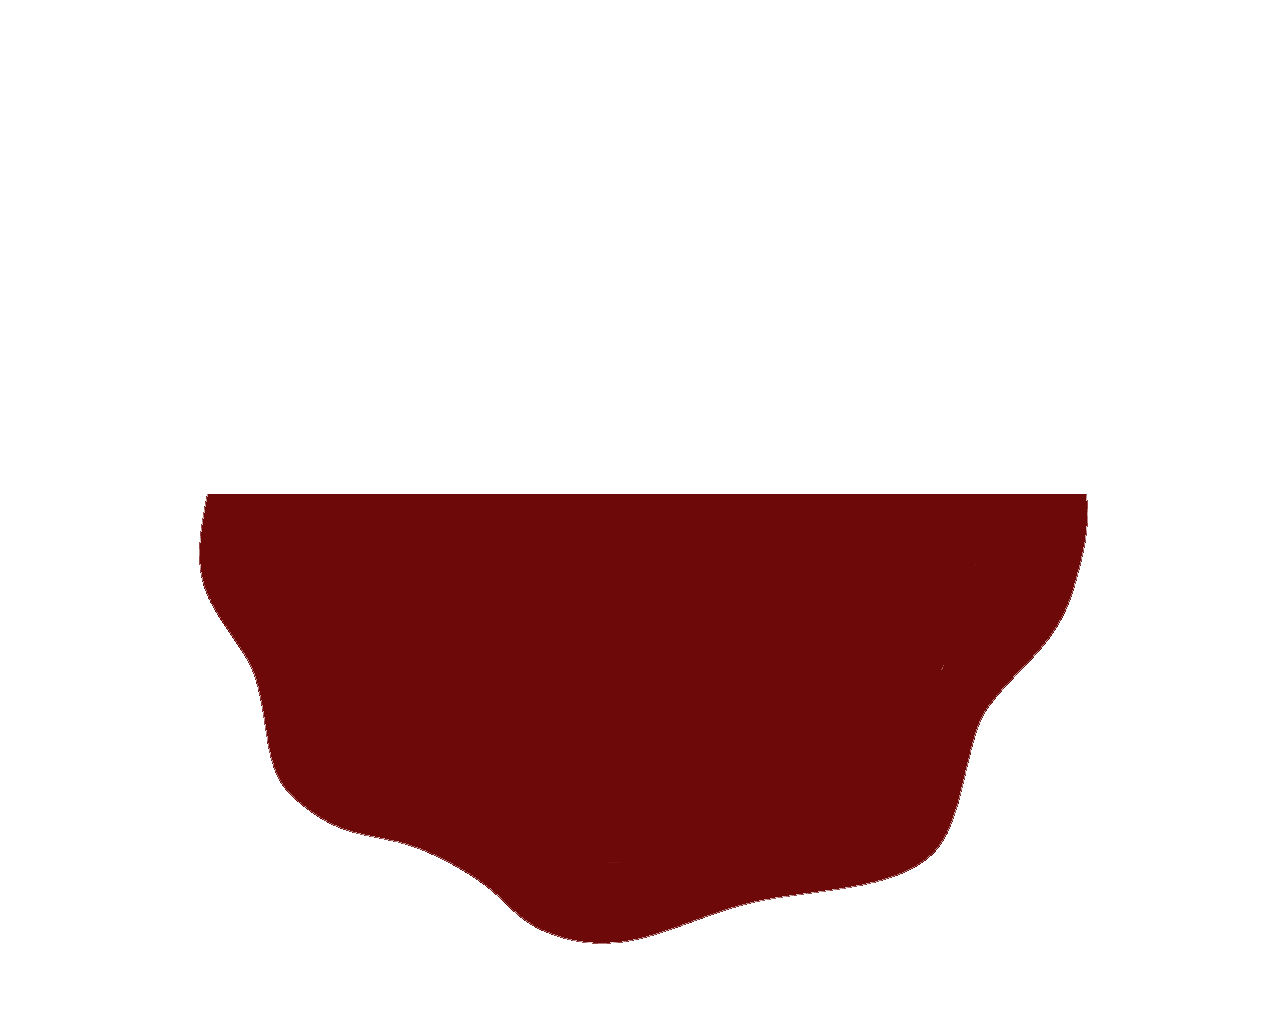
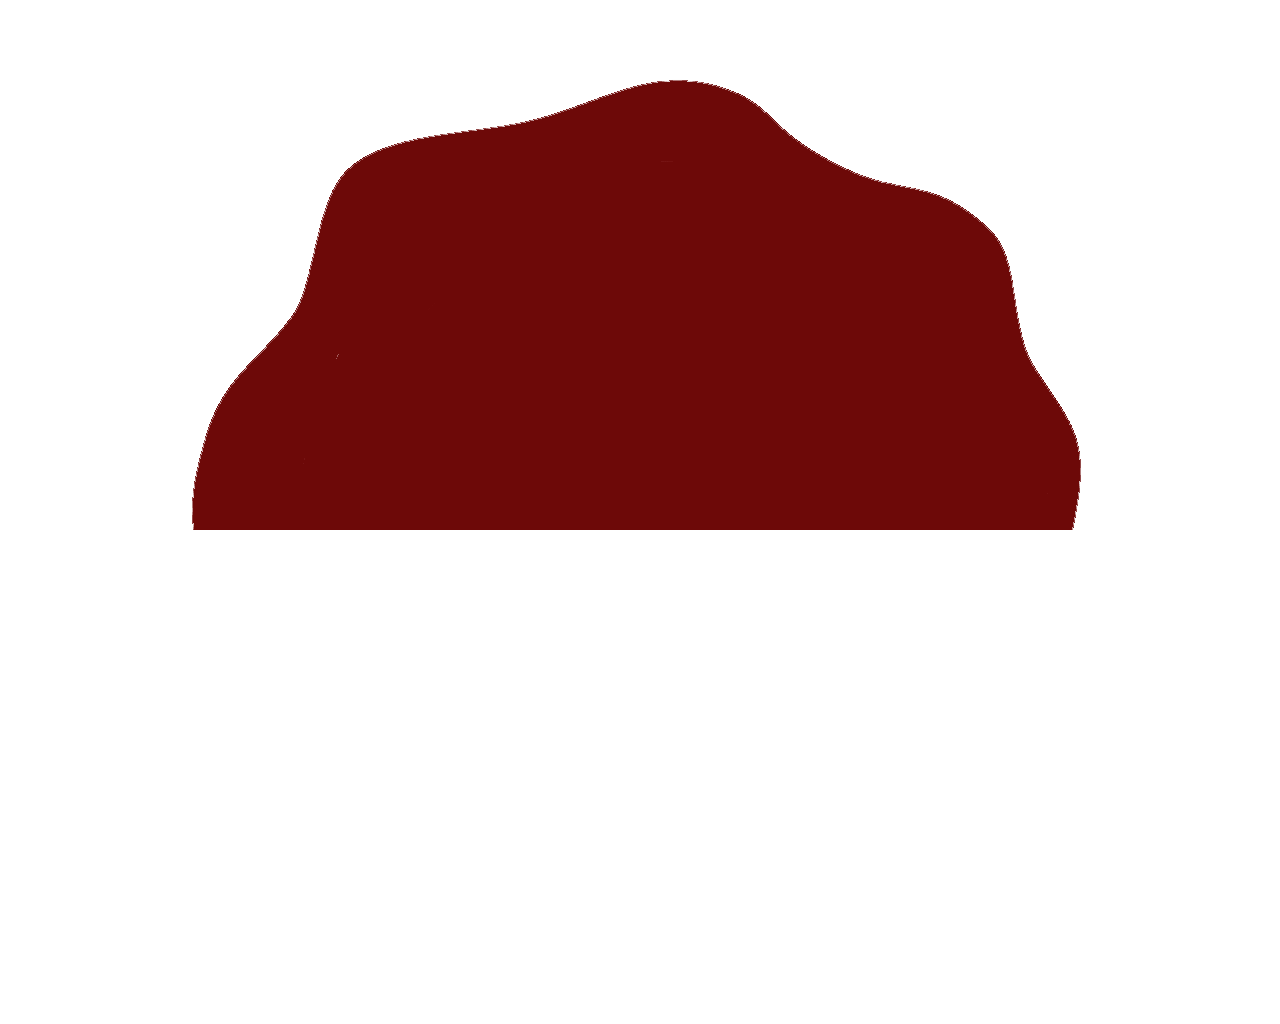
style: fix form in the letter

diff --git a/event-contact.html b/event-contact.html
@@ -274,54 +274,105 @@
         <section id="contact" class="mt-5 w-100">
           <div id="contact__container" class="container">
             <p class="contact__p fs-1 text-center col-11 mx-auto">D'abord, tu choisis ton <span>aventure </span>à la <span>date</span> qui te convient puis tu nous contactes pour réserver ta <span>place</span> !</p>
-            <div id="letter" class="col-11 mx-auto col-md-8 col-lg-5 m-5 bg-light text-black position-relative">
-              <div id="letter_up" class="contact__letter position-absolute border-bottom border-secondary col-12 m-0 p-0 bg-light" style="z-index: 6;height: 65%;">
-                <div id="letter-front_top" class="position-absolute h-100 col-12 bg-light">
-                  <h5 class="text-center fs-1 position-relative top-50 translate-middle-y">Formulaire de contact</h5>
-                  <button class="position-absolute start-50 translate-middle-x bg-transparent" style="bottom: -15%;"><img src="../../img_modif/stamp.png" alt="" style="height: 100px"></button>
+            <div id="letter" class="col-11 mx-auto col-md-8 col-lg-6 m-5 bg-light text-black position-relative">
+              <form class="col-12 fs-5">
+                <div id="letter_up" class="contact__letter position-absolute border-bottom border-secondary col-12 m-0 p-0 bg-light" style="z-index: 6;height: 55%;">
+                  <div id="letter-front_top" class="position-absolute h-100 col-12 bg-light">
+                    <h5 class="text-center fs-1 position-relative top-50 translate-middle-y">Formulaire de contact</h5>
+                    <button class="position-absolute start-50 translate-middle-x bg-transparent" style="bottom: -15%;"><img src="../../img_modif/stamp.png" alt="" style="height: 100px"></button>
+                  </div>
+                  <div id="letter-back_top" class="position-absolute h-100 col-12 bg-light">
+                    <button class="letter__button-back position-absolute start-50 translate-middle-x bg-transparent"><img src="../../img_modif/stamp-50-1.png" alt="" style="height: 100px; z-index: -5"></button>
+                    <div class="position-relative top-50" style="transform: translateY(-20%)">
+                      <div class="mb-3 col-10 mx-auto">
+                        <label for="name" class="form-label" >Nom :</label>
+                        <input type="text" class="form-control bg-transparent fs-5 p-0 ps-1" id="name">
+                      </div>
+                      <div class="col-10 mx-auto">
+                        <label for="email" class="form-label">Email :</label>
+                        <input type="email" class="form-control bg-transparent fs-5" id="email">
+                      </div>
+                    </div>
+                  </div>
                 </div>
-                <div id="letter-back_top" class="position-absolute h-100 col-12 bg-light">
-                  <button class="letter__button-back position-absolute start-50 translate-middle-x bg-transparent"><img src="../../img_modif/stamp-50-1.png" alt="" style="height: 100px; z-index: -5"></button>
+                <div class="form__second-part py-4">
+                  <p class="col-10 mx-auto m-0" >Raison de contact : </p>
+                  <div class="col-10 mx-auto d-flex flex-wrap flex-column">
+                    <p class="col-12 m-0">Soirée du...</p>
+                    <div class="form-check">
+                      <input class="form-check-input" type="radio" name="reason" id="firstDate" value="firstDate" checked>
+                      <label class="form-check-label" for="firstDate">
+                        19/08/2022
+                      </label>
+                    </div>
+                    <div class="mb-3">
+                      <select class="form-select bg-transparent fs-5" id="reason" disabled>
+                        <option value="">-- Choisir</option>
+                        <option value="" class="form__event">For the Queen</option>
+                        <option value="" class="form__event">CHRONIQUES OUBLIEES : La relique Défendue</option>
+                        <option value="" class="form__event">Donjons & Dragons 5ème édition</option>
+                        <option value="" class="form__event">City of Mist</option>
+                        <option value="" class="form__event">Campagne « Les Marches de L'ouest » FALLOUT - Session #1</option>
+                        <option value="" class="form__event">CHRONIQUES OUBLIÉES : Mystère à Clairval</option>
+                        <option value="" class="form__event">For the Crown</option>
+                      </select>
+                    </div>
+                    <div class="form-check">
+                      <input class="form-check-input" type="radio" name="reason" id="secondDate" value="secondDate">
+                      <label class="form-check-label" for="secondDate">
+                        02/10/2022
+                      </label>
+                    </div>
+                    <div class="mb-3">
+                      <select class="form-select bg-transparent fs-5" id="reason" disabled>
+                        <option value="">-- Choisir</option>
+                        <option value="" class="form__event">ONIRIS- "Un Bruit Au Fond Du Trou"</option>
+                        <option value="" class="form__event">STAR WARS - "Une Nuit À La Station Tosche"</option>
+                        <option value="" class="form__event">Rune</option>
+                        <option value="" class="form__event">KAAMELOTT - "Excalibur a disparu"</option>
+                        <option value="" class="form__event">FALLOUT - Campagne "Les Marches de l'ouest" #5</option>
+                      </select>
+                    </div>
+                    <div class="form-check">
+                      <input class="form-check-input" type="radio" name="reason" id="thirdDate" value="thirdDate">
+                      <label class="form-check-label" for="thirdDate">
+                        02/10/2022
+                      </label>
+                    </div>
+                    <div class="mb-3">
+                      <select class="form-select bg-transparent fs-5" id="reason" disabled>
+                        <option value="">-- Choisir</option>
+                        <option value="" class="form__event">Hogward</option>
+                        <option value="" class="form__event">Alien</option>
+                        <option value="" class="form__event">CHRONIQUE OUBLIÉES : Les Mystères de Clairval (Partie II)</option>
+                        <option value="" class="form__event">LE DONJON DE NAHEULBEUK: Les ruines d'Asvaard</option>
+                        <option value="" class="form__event">HONEY HEIST : Le Plan "Tigrade"</option>
+                        <option value="" class="form__event">Face au Titan</option>
+                      </select>
+                    </div>
+                    <div class="form-check mb-3">
+                      <input class="form-check-input" type="radio" name="reason" id="other" value="other">
+                      <label class="form-check-label" for="other">
+                        ou autre...
+                      </label>
+                    </div>
+                  </div>
+                  <div class="form-group mb-5 col-10 mx-auto">
+                    <textarea class="form-control fs-5 pt-1 bg-transparent" placeholder="Message..." id="floatingTextarea" style="height: 100px"></textarea>
+                  </div>
                 </div>
-              </div>
-              <div id="letter_down" class="contact__letter position-absolute col-12 m-0 p-0 bg-light bottom-0" style="z-index: 5;height: 45%">
-                <div id="letter-front_bot" class="position-absolute h-100 col-12 bg-light">
-                </div>
-                <div id="letter-back_bot" class="position-absolute h-100 col-12 bg-light">
-                </div>
-              </div>
-              <form class="col-12 py-4 fs-5">
-                <div class="mb-3 col-10 mx-auto">
-                  <label for="name" class="form-label">Nom :</label>
-                  <input type="text" class="form-control bg-transparent fs-5 p-0 ps-1" id="name">
-                </div>
-                <div class="mb-3 col-10 mx-auto">
-                  <label for="email" class="form-label">Email :</label>
-                  <input type="email" class="form-control bg-transparent fs-5" id="email">
-                </div>
-                <div class="mb-3 col-10 mx-auto">
-                  <label for="reason" class="form-label">Raison de contact :</label>
-                  <select class="form-select bg-transparent fs-5" id="reason">
-                    <option value="">-- Choisir</option>
-                    <option value="" class="form__event">19/08/2022 ** For the Queen</option>
-                    <option value="" class="form__event">19/08/2022 ** CHRONIQUES OUBLIEES : La relique Défendue</option>
-                    <option value="" class="form__event">19/08/2022 ** Donjons & Dragons 5ème édition</option>
-                    <option value="" class="form__event">19/08/2022 ** City of Mist</option>
-                    <option value="" class="form__event">19/08/2022 ** Campagne « Les Marches de L'ouest » FALLOUT - Session #1</option>
-                    <option value="" class="form__event">19/08/2022 ** CHRONIQUES OUBLIÉES : Mystère à Clairval</option>
-                    <option value="" class="form__event">19/08/2022 ** For the Crown</option>
-                    <option>Autre...</option>
-                  </select>
-                </div>
-                <div class="form-floating mb-3 col-10 mx-auto">
-                  <textarea class="form-control fs-5 pt-1 bg-transparent" placeholder="lala" id="floatingTextarea" style="height: 100px"></textarea>
-                </div>
-                <div class="form-check mb-3  ps-md-4 col-10 mx-auto">
-                  <input class="form-check-input" type="checkbox" value="" id="flexCheck">
-                  <label class="form-check-label" for="flexCheck">Je m'engage à prévenir l'association Dés Aventures en cas de retard ou de désistement.
-                  </label>
-                </div>
-                <button disabled type="submit" class="btn col-5 col-lg-2 p-2 position-relative start-50 translate-middle-x" style="background: var(--color-green);">Envoyer</button>
+                <div id="letter_down" class="contact__letter position-absolute col-12 m-0 p-0 bg-light bottom-0" style="z-index: 5;height: 45%">
+                  <div id="letter-front_bot" class="position-absolute h-100 col-12 bg-light"></div>
+                  <div id="letter-back_bot" class="position-absolute h-100 col-12 bg-light">
+                    <div class="position-relative top-50 translate-middle-y">
+                      <div class="form-check mb-3 ps-md-4 col-10 mx-auto">
+                        <input class="form-check-input" type="checkbox" value="" id="flexCheck">
+                        <label class="form-check-label" for="flexCheck">Je m'engage à prévenir l'association Dés Aventures en cas de retard ou de désistement.
+                        </label>
+                      </div>
+                      <button disabled type="submit" class="fs-5 btn col-5 col-lg-2 p-2 position-relative start-50 translate-middle-x" style="background: var(--color-green);">Envoyer</button>
+                    </div>
+                  </div>
               </form>
             </div>
           </div>

diff --git a/css/styles.css b/css/styles.css
@@ -446,14 +446,9 @@ input[type="email"] {
 }
 #reason {
   background-color: var(--bs-light);
-  border: none;
-  border-radius: 0;
-  border-bottom: 1px solid black;
+  border-color: black;
 }
 
-.form__event:hover {
-  background-color: var(--color-green);
-}
 .form-check-input:checked {
   background-color: #2ad496;
   border-color: #2ad496;
@@ -473,7 +468,7 @@ input[type="email"] {
 }
 
 #letter-back_top, #letter-back_bot {
-  transform: rotateY(180deg);
+  transform: rotateX(180deg);
 }
 #letter-front_top {
   box-shadow: inset 0px 43px 32px -30px rgba(0,0,0,0.31), inset -40px 0px 32px -30px rgba(0,0,0,0.31), inset 40px 0px 32px -30px rgba(0,0,0,0.31), 0px 2px 7px 3px rgba(0,0,0,0.3);
@@ -482,24 +477,24 @@ input[type="email"] {
   box-shadow: inset 0px -43px 32px -30px rgba(0,0,0,0.31), inset -40px 0px 32px -30px rgba(0,0,0,0.31), inset 40px 0px 32px -30px rgba(0,0,0,0.31);
 }
 #letter-back_top {
-  box-shadow: inset 0px -43px 35px 3px rgba(0,0,0,0.21), inset -40px 0px 32px -30px rgba(0,0,0,0.31), inset 40px 0px 32px -30px rgba(0,0,0,0.31),0px 2px 7px 3px rgba(0,0,0,0.3), inset 0px 43px 44px 3px rgba(0,0,0,0.3);
+  box-shadow: inset 0px -43px 35px -18px rgba(0,0,0,0.28), inset -40px 0px 32px -30px rgba(0,0,0,0.31), inset 40px 0px 32px -30px rgba(0,0,0,0.31),0px 2px 7px 3px rgba(0,0,0,0.3), inset 0px 43px 44px 3px rgba(0,0,0,0.3);
 }
 #letter-back_bot {
-  box-shadow: inset 0px -20px 40px 10px rgba(0,0,0,0.31), inset -40px 0px 32px -45px rgba(0,0,0,0.31), inset 40px 0px 32px -45px rgba(0,0,0,0.31), inset 0px 43px 44px 3px rgba(0,0,0,0.3);
+  box-shadow: inset 0px -20px 40px 10px rgba(0,0,0,0.31), inset -40px 0px 32px -45px rgba(0,0,0,0.31), inset 40px 0px 32px -45px rgba(0,0,0,0.31), inset 0px 25px 44px 3px rgba(0,0,0,0.25), 0px -2px 20px 5px rgba(0,0,0,0.4);
 }
 #letter form {
   background: url('../img_modif/white-parchment-paper-texture.jpg');
-  box-shadow: inset 0px -39px 7px -30px rgba(0,0,0,0.31), inset -40px 0px 32px -20px rgba(0,0,0,0.41), inset 40px 0px 32px -20px rgba(0,0,0,0.31),inset 0px 43px 32px -30px rgba(0,0,0,0.31);
+  box-shadow: inset 0px -39px 7px -30px rgba(0,0,0,0.31), inset -40px 0px 32px -20px rgba(0,0,0,0.41), inset 40px 0px 32px -20px rgba(0,0,0,0.31);
 }
 .open-on_up {
   transform: translateY(-90%) rotateX(150deg);
 }
 .open-on_down {
-  transform: translateY(80%) rotateX(-130deg);
+  transform: translateY(80%) rotateX(-160deg);
 
 }
 .letter__button-back {
-  bottom: -16%;
+  bottom: 85%;
 }
 
 .contact__icon {
@@ -507,11 +502,7 @@ input[type="email"] {
 }
 
 /* ______________MEDIA SCREEN */
-@media screen and (max-width: 350px) {
-  .letter__button-back {
-    bottom: -14%;
-  }
-}
+
 @media screen and (max-width: 767px) {
   #contact-event .icon-bg {
     visibility: hidden;
